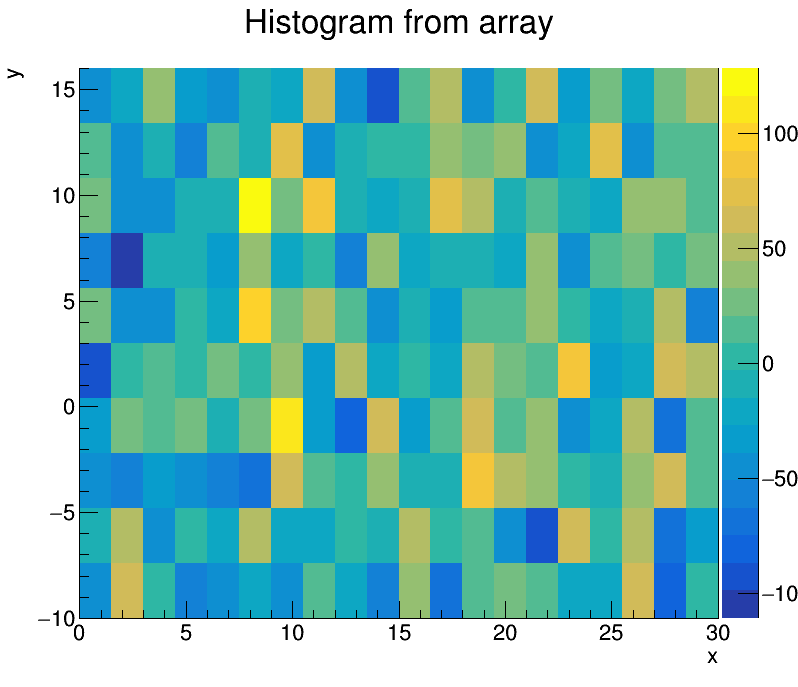
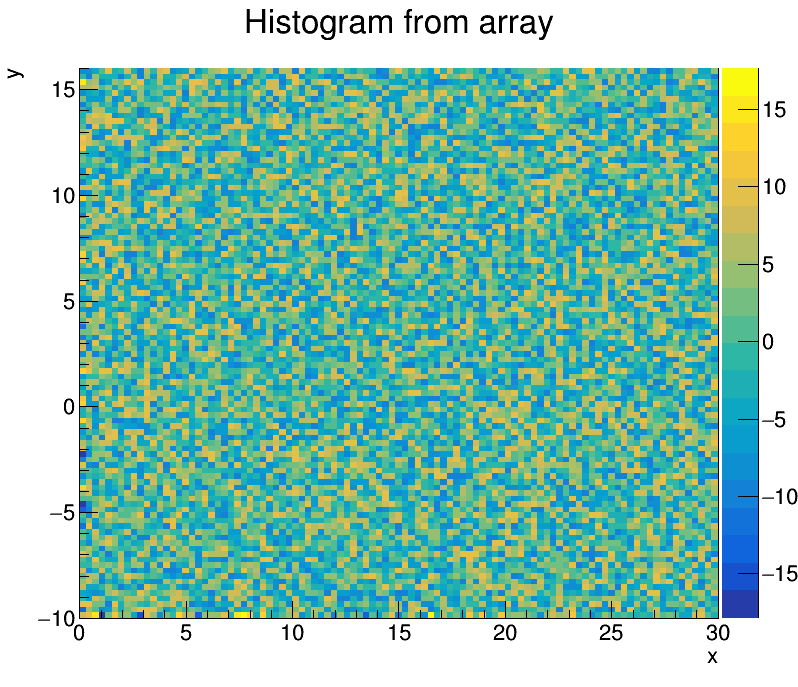
added a general structure file

diff --git a/root/graphModule.py b/root/graphModule.py
@@ -1,21 +1,25 @@
-#Program to read in an array from a file and output it as a hitstogram
+#module to read in an array from a file and output it as a hitstogram
 #generalised to any array size
 #needs ROOT to run
 
-#import root functions and numpy
+# #import root functions and numpy
 from ROOT import gROOT, TCanvas, kBird, TH2D, gStyle, TImage
-import numpy as np
+# import numpy as np
 import os
 
 
 
 #load grid header file
-gROOT.LoadMacro('../gridExamples/ExampleGrid.h')
-from ROOT import Grid
+#gROOT.LoadMacro('gridExamples/ExampleGrid.h')
+#from ROOT import Grid
 
-def graphGrid(xmax, xmin, dx, ymax, ymin, dy, grid, imgNum) :
+def graphGrid(grid, imgNum) :
 
-    #initialise variable
+    #initialise variables
+    nx=grid.nX(); dx=grid.dX(); ny=grid.nY(); dy=grid.dY()
+    xmax=0.5*nx*dx; xmin=-0.5*nx*dx
+    ymax=0.5*ny*dy; ymin=-0.5*ny*dy
+    
     nxbin=int(grid.nX()-1)
     nybin=int(grid.nY()-1)
     print "nxbin = %d" %nxbin
@@ -23,7 +27,7 @@ def graphGrid(xmax, xmin, dx, ymax, ymin, dy, grid, imgNum) :
     #(on wiki need to find better source)
     
     fileName="graphs"
-    pathName = os.path.join( ".", fileName, imgNum + ".png" )
+    pathName = os.path.join( ".", "root", fileName, imgNum + ".png" )
     
     gStyle.SetPalette(kBird) #make pretty (set colours)
     gStyle.SetOptStat(0) #hides information about mean x,y ect
@@ -66,29 +70,3 @@ def graphGrid(xmax, xmin, dx, ymax, ymin, dy, grid, imgNum) :
     del histo
 
     return 0
-
-#initialise graph axes (these are global variables)
-g_dx=0.2
-g_dy=0.1
-
-#define array as a grid
-array = Grid(100,100,g_dx,g_dy)
-
-print "Initialised empty Grid"
-#fill array with random numbers
-for i in xrange(array.nX()):
-    for j in xrange(array.nY()):
-        array[i][j]=float(20*np.random.random_sample()-10)
-        
-print "Filled Grid sucessfully"
-
-#example call
-#this shoulb be importable as a function and can be run from another file with any grid. x and y values are determined by boundary conditions
-graphGrid(xmax=20, xmin=10, dx=array.dX(), #x variables
-          ymax=5, ymin=0, dy=array.dY(), #y variables
-          grid=array, imgNum="1") #grid and save file
-graphGrid(xmax=30, xmin=0, dx=array.dX(),
-          ymax=16, ymin=-10, dy=array.dY(),
-          grid=array, imgNum="2")
-
-del array

diff --git a/structure.py b/structure.py
@@ -1,0 +1,48 @@
+#A program for top level structure
+
+#adding any directories with python files to include to the path
+#need to look into __init__ files
+import sys
+sys.path.insert(0, "./root/")
+
+#load macros of C++ files
+from ROOT import gROOT
+#format gROOT.LoadMacro("path_from_current_file")
+gROOT.LoadMacro('gridExamples/ExampleGrid.h') 
+from ROOT import Grid
+
+#when it imports the function is runs it from the folder you are in
+#so need to take that into account when writing code to save to a file
+from graphModule import graphGrid 
+
+import time
+import numpy as np
+import os
+
+#####################################################################
+
+#input and parser
+#boundaryGrid = someInputFunction()
+
+#####################################################################
+
+#solver
+#solvedGrid = someSolverFunction(boundaryGrid)
+
+#####################################################################
+
+#plotter
+
+#for now this will make it save the output graph under a file decribing current date and time. We can eventually make a file name part of the input if necessary
+outputFileName = time.strftime("%Y%m%d-%H%M%S")
+
+#example grid for testing purposes
+solvedGrid = Grid(100,100,0.2,0.1)
+print "Initialised empty Grid"
+#fill array with random numbers
+for i in xrange(solvedGrid.nX()):
+    for j in xrange(solvedGrid.nY()):
+        solvedGrid[i][j]=float(20*np.random.random_sample()-10)
+print "Filled Grid sucessfully"
+
+graphGrid(solvedGrid, outputFileName)
